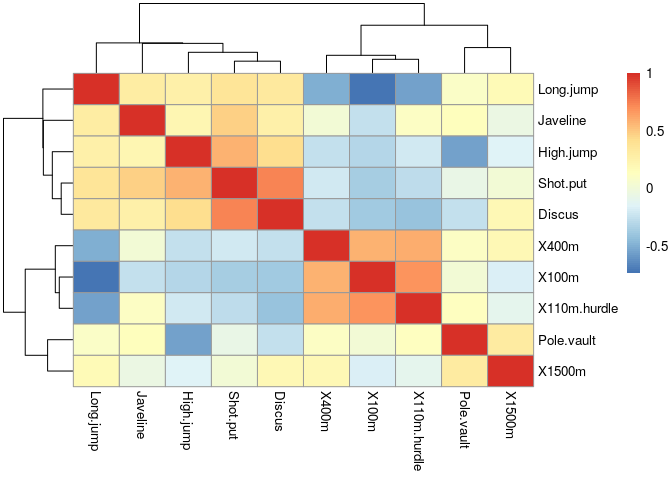
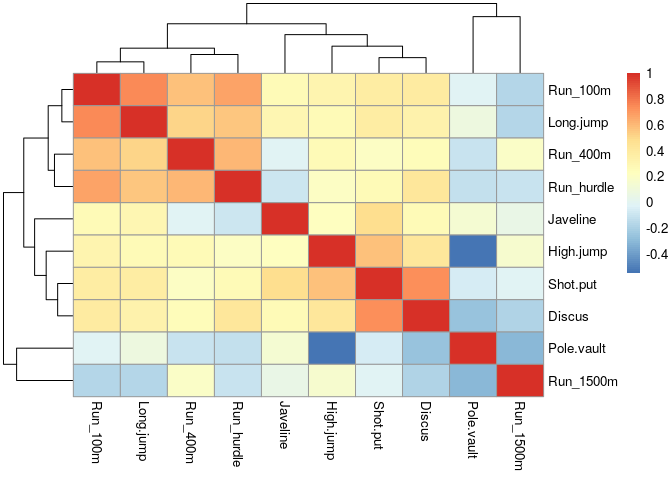
Orphan commit!

diff --git a/dim.lect.html b/dim.lect.html
@@ -4,7 +4,7 @@
   <meta http-equiv="Content-Type" content="text/html; charset=utf-8" />
   <meta http-equiv="Content-Style-Type" content="text/css" />
   <meta name="generator" content="pandoc" />
-  <title>high-dimensional data</title>
+  <title>high-dimensional examples</title>
   <style type="text/css">
       code{white-space: pre-wrap;}
       span.smallcaps{font-variant: small-caps;}
@@ -25,10 +25,9 @@
 </div>
 </header>
 <div id="header">
-<h1 class="title">high-dimensional data</h1>
+<h1 class="title">high-dimensional examples</h1>
 </div>
-<pre><code>library(tourr)
-library(factoextra)
+<pre><code>library(factoextra)
 library(pheatmap)
 library(tidyverse)</code></pre>
 <h2 id="data">Data</h2>
@@ -72,115 +71,163 @@ library(tidyverse)</code></pre>
 <li>e.g. species diversity</li>
 </ul></li>
 </ul>
-<hr />
-<h2 id="buja-cook-and-swayne-1996">Buja, Cook, and Swayne (1996)</h2>
-<ul>
-<li>traces (functions: parallel coordinates, <a href="https://en.wikipedia.org/wiki/Andrews_plot">Andrews plots</a>)</li>
-<li>glyphs (stars/radar charts/faces/etc.)</li>
-</ul>
-<h2 id="radar-chart">radar chart</h2>
-<p><img src="pix/531px-Star_Plot_of_16_cars.jpg" /></p>
-<h2 id="tours">tours</h2>
-<p>three components:</p>
-<ul>
-<li>data matrix (<em>n</em> × <em>p</em>)</li>
-<li><strong>tour path</strong> that produces a smooth sequence of projection matrices (<em>p</em> × <em>d</em>)</li>
-<li><strong>display method</strong> that renders the projected data.</li>
-</ul>
-<p>Goal: allow automated, systematic search through <strong>entire</strong> space of projections</p>
-<hr />
-<pre><code>animate_xy(laser)</code></pre>
-<h2 id="available-display-methods">available display methods</h2>
-<pre><code>apropos(&quot;animate_&quot;)
+<h2 id="decathlon-events">Decathlon events</h2>
+<pre><code>print(names(decathlon2))
 
-##  [1] &quot;animate_andrews&quot;   &quot;animate_density2d&quot; &quot;animate_depth&quot;    
-##  [4] &quot;animate_dist&quot;      &quot;animate_faces&quot;     &quot;animate_groupxy&quot;  
-##  [7] &quot;animate_image&quot;     &quot;animate_pcp&quot;       &quot;animate_scatmat&quot;  
-## [10] &quot;animate_stars&quot;     &quot;animate_stereo&quot;    &quot;animate_trails&quot;   
-## [13] &quot;animate_xy&quot;</code></pre>
-<h2 id="projections">projections</h2>
-<p>Alternative: try to find some machinery</p>
-<pre><code>dec_mat &lt;- as.matrix(scale(decathlon2[1:10]))
+##  [1] &quot;X100m&quot;        &quot;Long.jump&quot;    &quot;Shot.put&quot;     &quot;High.jump&quot;   
+##  [5] &quot;X400m&quot;        &quot;X110m.hurdle&quot; &quot;Discus&quot;       &quot;Pole.vault&quot;  
+##  [9] &quot;Javeline&quot;     &quot;X1500m&quot;       &quot;Rank&quot;         &quot;Points&quot;      
+## [13] &quot;Competition&quot;</code></pre>
+<h2 id="decathlon-frame">Decathlon frame</h2>
+<pre><code>dec_frame &lt;- (decathlon2[1:10]
+    %&gt;% rename_all(sub, pattern=&quot;^X&quot;, replacement=&quot;Run_&quot;)
+    %&gt;% mutate_at(vars(contains(&#39;Run_&#39;)), funs(-.))
+    %&gt;% rename_all(sub, pattern=&quot;110m.&quot;, replacement=&quot;&quot;)
+    %&gt;% mutate_all(scale)
+)
+
+## Warning: funs() is soft deprecated as of dplyr 0.8.0
+## Please use a list of either functions or lambdas: 
+## 
+##   # Simple named list: 
+##   list(mean = mean, median = median)
+## 
+##   # Auto named with `tibble::lst()`: 
+##   tibble::lst(mean, median)
+## 
+##   # Using lambdas
+##   list(~ mean(., trim = .2), ~ median(., na.rm = TRUE))
+## This warning is displayed once per session.</code></pre>
+<h2 id="pairs-plot">Pairs plot</h2>
+<p><img src="iris.Rout.png" alt="Iris pairs plot (iris.R)" /> * Slow, and not very good for more than 5 or 6 variables * Base R may be faster for quick viz</p>
+<h2 id="heatmap">Heatmap</h2>
+<pre><code>dec_mat &lt;- as.matrix(dec_frame)
 heatmap(dec_mat)</code></pre>
-<p><img src="dim.lect_files/figure-markdown_strict/heatmap-1.png" /></p>
-<hr />
+<p><img src="dim.lect_files/figure-markdown_strict/dec_heatmap-1.png" /></p>
+<h2 id="heatmap-again">Heatmap again</h2>
+<pre><code>heatmap(t(dec_mat))</code></pre>
+<p><img src="dim.lect_files/figure-markdown_strict/dec_t_heatmap-1.png" /></p>
+<h2 id="correlation-heatmap">Correlation heatmap</h2>
 <pre><code>pheatmap(cor(dec_mat), cell.width = 10, cell.height = 10)</code></pre>
 <p><img src="dim.lect_files/figure-markdown_strict/corr_heatmap-1.png" /></p>
-<p>(see also the <code>corrplot</code> package)</p>
+<p>Better for visualizing groups of events</p>
+<h2 id="athelete-correlations">Athelete correlations</h2>
+<pre><code>pheatmap(cor(t(dec_mat)), cell.width = 4, cell.height = 4)</code></pre>
+<p><img src="dim.lect_files/figure-markdown_strict/corr_athlete-1.png" /></p>
+<p>Better for visualizing groups of events</p>
 <h2 id="pca">PCA</h2>
-<p>Examples/data from Holmes and Huber (2019)</p>
+<p>A beautiful decomposition based on the idea that data points are points in a Euclidean space</p>
 <ul>
-<li><code>prcomp</code> (SVD): preferred (also <code>princomp</code> ??)</li>
-<li>same data; projects in a way that (hopefully) focuses on interesting angles in the data</li>
-<li>assumes linear features</li>
-<li>normality not necessary, but better-behaved with normal data</li>
+<li>Need to think about scaling</li>
 </ul>
-<hr />
+<p>We can think about the PCA as a decomposition (making observed points from idealized points)</p>
+<ul>
+<li>And relax it by requiring <em>non-negative</em> combinations of <em>non-negative</em> components (NMF)</li>
+</ul>
+<p>Or we can think about it as minimizing distances:</p>
+<ul>
+<li>And relax it with non-Euclidean distances (PCoA)</li>
+<li>… or a rank-based approach (NMDS)</li>
+</ul>
+<h2 id="pca-decomposition">PCA decomposition</h2>
 <p>View loadings:</p>
 <pre><code>pca_ath &lt;- prcomp(dec_mat, scale=TRUE)
-fviz_pca_var(pca_ath, col.circle = &quot;black&quot;) + ggtitle(&quot;&quot;)</code></pre>
+fviz_screeplot(pca_ath)</code></pre>
+<p><img src="dim.lect_files/figure-markdown_strict/pca-1.png" /></p>
+<h2 id="individuals">Individuals</h2>
+<pre><code>fviz_pca_ind(pca_ath)</code></pre>
+<p><img src="dim.lect_files/figure-markdown_strict/fviz_ind-1.png" /></p>
+<h2 id="components">Components</h2>
+<pre><code>fviz_pca_var(pca_ath)</code></pre>
 <p><img src="dim.lect_files/figure-markdown_strict/fviz_loadings-1.png" /></p>
 <hr />
+<pre><code>fviz_pca_var(pca_ath, axes=c(2, 3))</code></pre>
+<p><img src="dim.lect_files/figure-markdown_strict/fviz_altloadings-1.png" /></p>
+<h2 id="biplot">Biplot</h2>
 <p>View scores and loadings:</p>
 <pre><code>fviz_pca_biplot(pca_ath)</code></pre>
 <p><img src="dim.lect_files/figure-markdown_strict/fviz_biplot-1.png" /></p>
-<h2 id="wine-example">wine example</h2>
-<pre><code>load(&quot;data/wine.RData&quot;)
-load(&quot;data/wineClass.RData&quot;)
+<h2 id="non-metric-scaling">Non-metric scaling</h2>
+<pre><code>library(vegan)
 
-winePCAd = prcomp(wine,scale=TRUE) ## compute PCA
-f0 &lt;- fviz_pca_biplot(winePCAd, geom = &quot;point&quot;, habillage = wine.class,
-                      col.var = &quot;violet&quot;, addEllipses = TRUE, ellipse.level = 0.69) +
-  ggtitle(&quot;&quot;) + coord_fixed() +
-  scale_colour_brewer(palette=&quot;Dark2&quot;) +
-  scale_fill_brewer(palette=&quot;Dark2&quot;)
-## make augmented data we can use
-aug_data &lt;- (get_pca_ind(winePCAd)$coord
-  %&gt;% as_tibble()
-  %&gt;% mutate(class=wine.class)
-)</code></pre>
-<h2 id="plot">plot</h2>
-<pre><code>print(f0)</code></pre>
-<p><img src="dim.lect_files/figure-markdown_strict/plot_wine1-1.png" /></p>
-<h2 id="improved-plot">improved plot</h2>
-<pre><code>f1 &lt;- fviz_pca_biplot(winePCAd, geom = &quot;point&quot;, habillage = wine.class,
-   col.var = &quot;violet&quot;) + ggtitle(&quot;&quot;) + coord_fixed() +
-  scale_colour_brewer(palette=&quot;Dark2&quot;) +
-  scale_fill_brewer(palette=&quot;Dark2&quot;)
-names(ggplot_build(f1)$data[[1]])
+## Loading required package: permute
 
-##  [1] &quot;colour&quot; &quot;shape&quot;  &quot;x&quot;      &quot;y&quot;      &quot;PANEL&quot;  &quot;group&quot;  &quot;size&quot;  
-##  [8] &quot;fill&quot;   &quot;alpha&quot;  &quot;stroke&quot;
+## Loading required package: lattice
 
-f2 &lt;- f1 + ggalt::geom_encircle(data=aug_data,
-                          aes(x=Dim.1,y=Dim.2,group=class,
-                              colour=class,
-                              fill=class),alpha=0.2,
-                          show.legend=FALSE)</code></pre>
-<hr />
-<pre><code>print(f2)</code></pre>
-<p><img src="dim.lect_files/figure-markdown_strict/print_wineplot2-1.png" /></p>
-<h2 id="different-projection-methods">different projection methods</h2>
-<ul>
-<li>Principal coordinates (PCoA: start from a <em>distance matrix</em>)
-<ul>
-<li>e.g. species diversity</li>
-<li>text samples</li>
-<li>PCoA + Euclidean distance = PCA</li>
-</ul></li>
-<li>non-metric multidimensional scaling (NMDS)</li>
-<li>non-negative matrix factorization</li>
-<li>… ???</li>
-<li>PCA <a href="http://www.sthda.com/english/articles/31-principal-component-methods-in-r-practical-guide/118-principal-component-analysis-in-r-prcomp-vs-princomp/">example</a></li>
-</ul>
-<h2 id="challenges">challenges</h2>
-<ul>
-<li>categorical/compositional data</li>
-<li>random forest viz?</li>
-</ul>
-<h2 id="references">references</h2>
-<p>Buja, Andreas, Dianne Cook, and Deborah F. Swayne. 1996. “Interactive High-Dimensional Data Visualization.” <em>Journal of Computational and Graphical Statistics</em> 5 (1): 78–99. <a href="https://doi.org/10.2307/1390754" class="uri">https://doi.org/10.2307/1390754</a>.</p>
-<p>Holmes, Susan, and Wolfgang Huber. 2019. <em>Modern Statistics for Modern Biology</em>. 1 edition. Cambridge: Cambridge University Press.</p>
+## This is vegan 2.5-6
+
+mds &lt;- metaMDS(dec_mat, distance=&quot;euclidean&quot;)
+
+## &#39;comm&#39; has negative data: &#39;autotransform&#39;, &#39;noshare&#39; and &#39;wascores&#39; set to FALSE
+
+## Run 0 stress 0.175356 
+## Run 1 stress 0.1788136 
+## Run 2 stress 0.175356 
+## ... Procrustes: rmse 4.199628e-05  max resid 0.0001393724 
+## ... Similar to previous best
+## Run 3 stress 0.1754593 
+## ... Procrustes: rmse 0.02195756  max resid 0.07909403 
+## Run 4 stress 0.1757427 
+## ... Procrustes: rmse 0.00834928  max resid 0.03170723 
+## Run 5 stress 0.2939862 
+## Run 6 stress 0.1757427 
+## ... Procrustes: rmse 0.008357441  max resid 0.03174303 
+## Run 7 stress 0.2032167 
+## Run 8 stress 0.2751468 
+## Run 9 stress 0.175356 
+## ... Procrustes: rmse 5.939411e-05  max resid 0.0001985773 
+## ... Similar to previous best
+## Run 10 stress 0.2028367 
+## Run 11 stress 0.2045572 
+## Run 12 stress 0.2008871 
+## Run 13 stress 0.2829533 
+## Run 14 stress 0.2050859 
+## Run 15 stress 0.2050859 
+## Run 16 stress 0.1783896 
+## Run 17 stress 0.1754595 
+## ... Procrustes: rmse 0.02223175  max resid 0.07980905 
+## Run 18 stress 0.2146018 
+## Run 19 stress 0.1787376 
+## Run 20 stress 0.175356 
+## ... Procrustes: rmse 3.008194e-06  max resid 6.454376e-06 
+## ... Similar to previous best
+## *** Solution reached
+
+plot(mds)
+
+## species scores not available</code></pre>
+<p><img src="dim.lect_files/figure-markdown_strict/nmds-1.png" /></p>
+<pre><code>print(scores(mds))
+
+##         NMDS1       NMDS2
+## 1  -0.5216793 -0.62341748
+## 2  -1.1789596 -2.64143567
+## 3   1.5244483 -1.27562651
+## 4   0.9351417  2.34291516
+## 5   0.2298949  1.25947043
+## 6  -0.7348909  0.94626213
+## 7   2.6611695  2.21451458
+## 8   2.3583813 -0.28715276
+## 9   1.4849254  0.28560888
+## 10  3.3259036  0.78088407
+## 11  4.6251675 -0.57956959
+## 12 -3.9805059  0.05178841
+## 13 -3.6958724 -0.67114345
+## 14 -4.3497728  1.12145580
+## 15 -1.8142574  2.05225829
+## 16 -1.4429019 -0.93301201
+## 17 -0.4707048  1.74131060
+## 18 -0.1431211  0.61501051
+## 19 -1.4332552  0.85977533
+## 20  0.6779905 -0.69777531
+## 21 -0.2215424 -0.32220831
+## 22  0.5627001 -0.43100980
+## 23  0.6839564  1.34459164
+## 24 -1.5274034 -1.90609679
+## 25  0.3721861 -0.85945466
+## 26  0.7588504 -2.13184500
+## 27  1.3141512 -2.25609851</code></pre>
+<p>library(vegan)</p>
 <div id="footer">
 	<div style="text-align:center">
 		<a href="index.html">Course home page</a>
